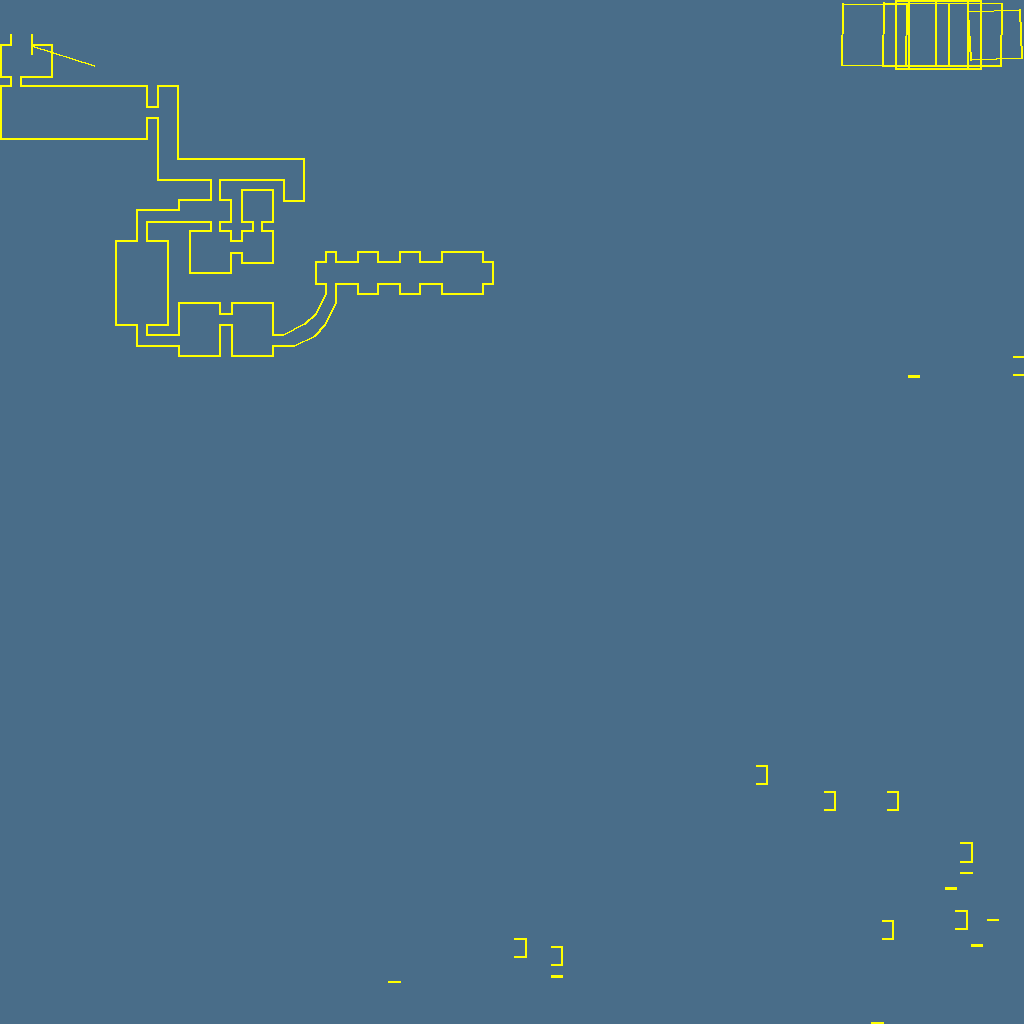
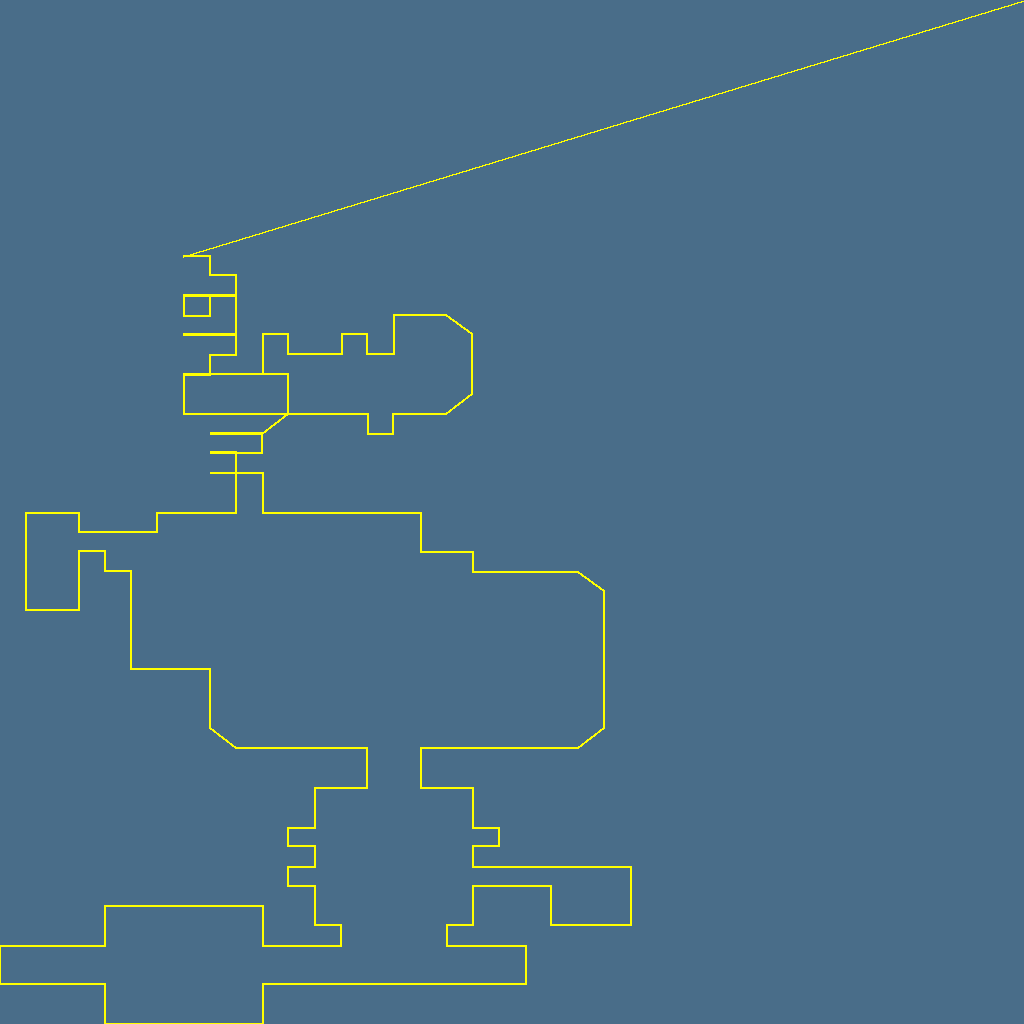
invert y axis on display

diff --git a/drawMap.py b/drawMap.py
@@ -7,22 +7,22 @@ def reconfigureLines(lines: list[list]):
     return newLines
 
 
-def draw_lines(lines, width=1024, height=1024):
+def draw_lines(lines, width=1024):
     lines = reconfigureLines(lines)
     # Calculate min and max coordinates
-    min_x = min(min(d[0], d[2]) for d in lines)
-    max_x = max(max(d[0], d[2]) for d in lines)
-    min_y = min(min(d[1], d[3]) for d in lines)
-    max_y = max(max(d[1], d[3]) for d in lines)
+    min_x = min(min(line[0], line[2]) for line in lines)
+    max_x = max(max(line[0], line[2]) for line in lines)
+    min_y = min(min(line[1], line[3]) for line in lines)
+    max_y = max(max(line[1], line[3]) for line in lines)
 
     # Rescale coordinates
     def rescale(x, y):
-        scaled_x = int(((x - min_x) / (max_x - min_x)) * 1024)
-        scaled_y = int(((y - min_y) / (max_y - min_y)) * 1024)
+        scaled_x = int(((x - min_x) / (max_x - min_x)) * width)
+        scaled_y = int(width - ((y - min_y) / (max_y - min_y)) * width)
         return scaled_x, scaled_y
 
     # Create a new image
-    img = Image.new('RGB', (1024, 1024), color = (73, 109, 137))
+    img = Image.new('RGB', (width, width), color = (73, 109, 137))
     d = ImageDraw.Draw(img)
 
     # Draw lines

diff --git a/loadMap.py b/loadMap.py
@@ -129,9 +129,12 @@ def load_map(file_path):
     bigLump1 = load_map_part(lump2, lump3, metadata['p'])
     bigLump2 = load_map_part(lump4, lump5, metadata['n'])
 
-    modifier = obfuscatedMagic.BigLumpModifier(metadata)
-    modifier.modify_big_lumps01(bigLump0, bigLump1)
-    modifier.modify_big_lump1(bigLump1)
+    # modifier = obfuscatedMagic.BigLumpModifier(metadata)
+    # modifier.modify_big_lumps01(bigLump0, bigLump1)
+    # modifier.modify_big_lump1(bigLump1)
+    # return modifier.cW
+
+    return obfuscatedMagic.modifyBigLumps01(bigLump0, bigLump1)[0]
 
     # print("\nbigLump 0\n")
     # printBigLump(bigLump0)
@@ -147,7 +150,4 @@ def load_map(file_path):
     #     print(len(x))
 
     # print(get2DListValueRange(modifier.cW))
-    return modifier.cW
 
-
-load_map("1 d (склад).b3d")

diff --git a/convert.py b/convert.py
@@ -38,6 +38,6 @@ def prettifyACS(script) -> str:
 # print('things[0]:', thing.to_textmap())
 
 
-# lines = load_map("1 d (склад).b3d")
-lines = load_map("2 b (казарма).b3d")
+lines = load_map("1 d (склад).b3d")
+# lines = load_map("2 b (казарма).b3d")
 draw_lines(lines)

diff --git a/obfuscatedMagic.py b/obfuscatedMagic.py
@@ -3,6 +3,7 @@ def q(var1):
     by = [0 for _ in range(var1)]
     return cW, by
 
+# loads base geometry
 def modifyBigLumps01(big_lump0, big_lump1):
     var3 = False
     var11 = 0
